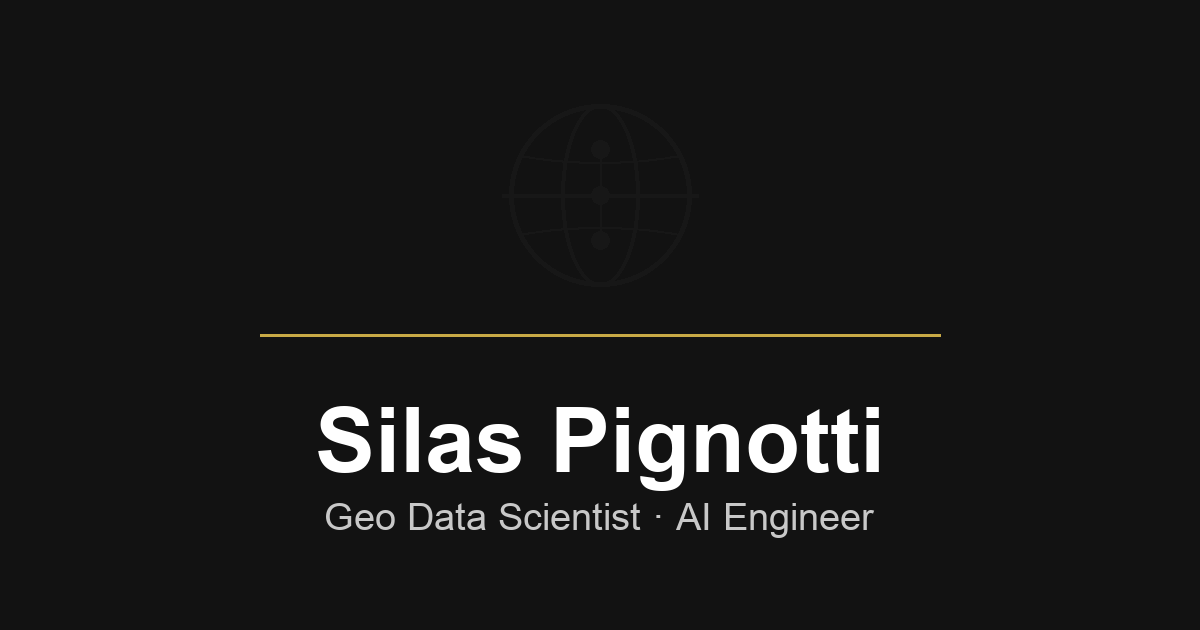
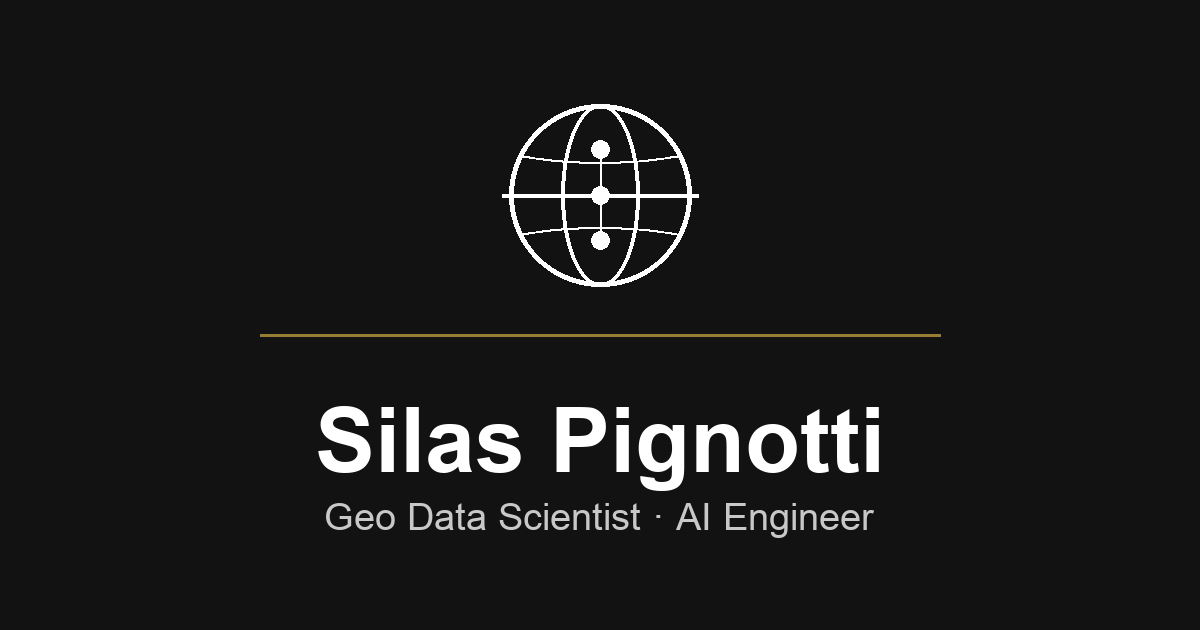
content(ui): update What I Do section, renamr tagline, projects description, skills intro, and OG image refinements

Changed region(s): [[0.4008, 0.1508, 0.5858, 0.4524], [0.2158, 0.5127, 0.7708, 0.5429]]

diff --git a/src/content/pages/landing.md b/src/content/pages/landing.md
@@ -11,11 +11,11 @@ M.Sc. Geoinformation student at BHT Berlin. Building geospatial ML systems and A
 
 ### Geospatial Data Science
 
-Machine learning and deep learning on satellite imagery and geodata. End-to-end pipelines from raw data to trained models, with a focus on reproducibility and evaluation.
+Machine learning and deep learning on satellite imagery and geodata. Remote sensing, spatial analysis, time series analysis, geodata processing.
 
 ### AI & Automation
 
-Context Engineering, agentic workflows, and LLM-based tooling. I build structured prompt systems, automated pipelines, and integrate AI into development and analysis workflows.
+Agentic systems, context engineering, RAG pipelines, prompt engineering. LLM-based tooling for development, analysis, and workflow automation.
 
 ### Open Source
 

diff --git a/src/content/projects/renamr.md b/src/content/projects/renamr.md
@@ -14,7 +14,7 @@ tags:
 github: "https://github.com/spignotti/renamr"
 pypi: "https://pypi.org/project/renamr/"
 coverIcon: "wand-2"
-tagline: "Rename downloaded files to a consistent schema without manual sorting."
+tagline: "AI-powered CLI for automatic file renaming. Analyzes PDFs, scans, and images via LLM. Open source, published on PyPI."
 year: 2026
 completed: true
 featured: false

diff --git a/src/content/pages/projects.md b/src/content/pages/projects.md
@@ -1,6 +1,6 @@
 ---
 title: My Projects
-description: Geospatial data science, ML/DL, and AI tooling projects. From satellite image classification to open-source CLI tools.
+description: Selected projects in geospatial analysis, machine learning, and AI tooling.
 slug: /projects
 ogImage: /ogImage.png
 ---
